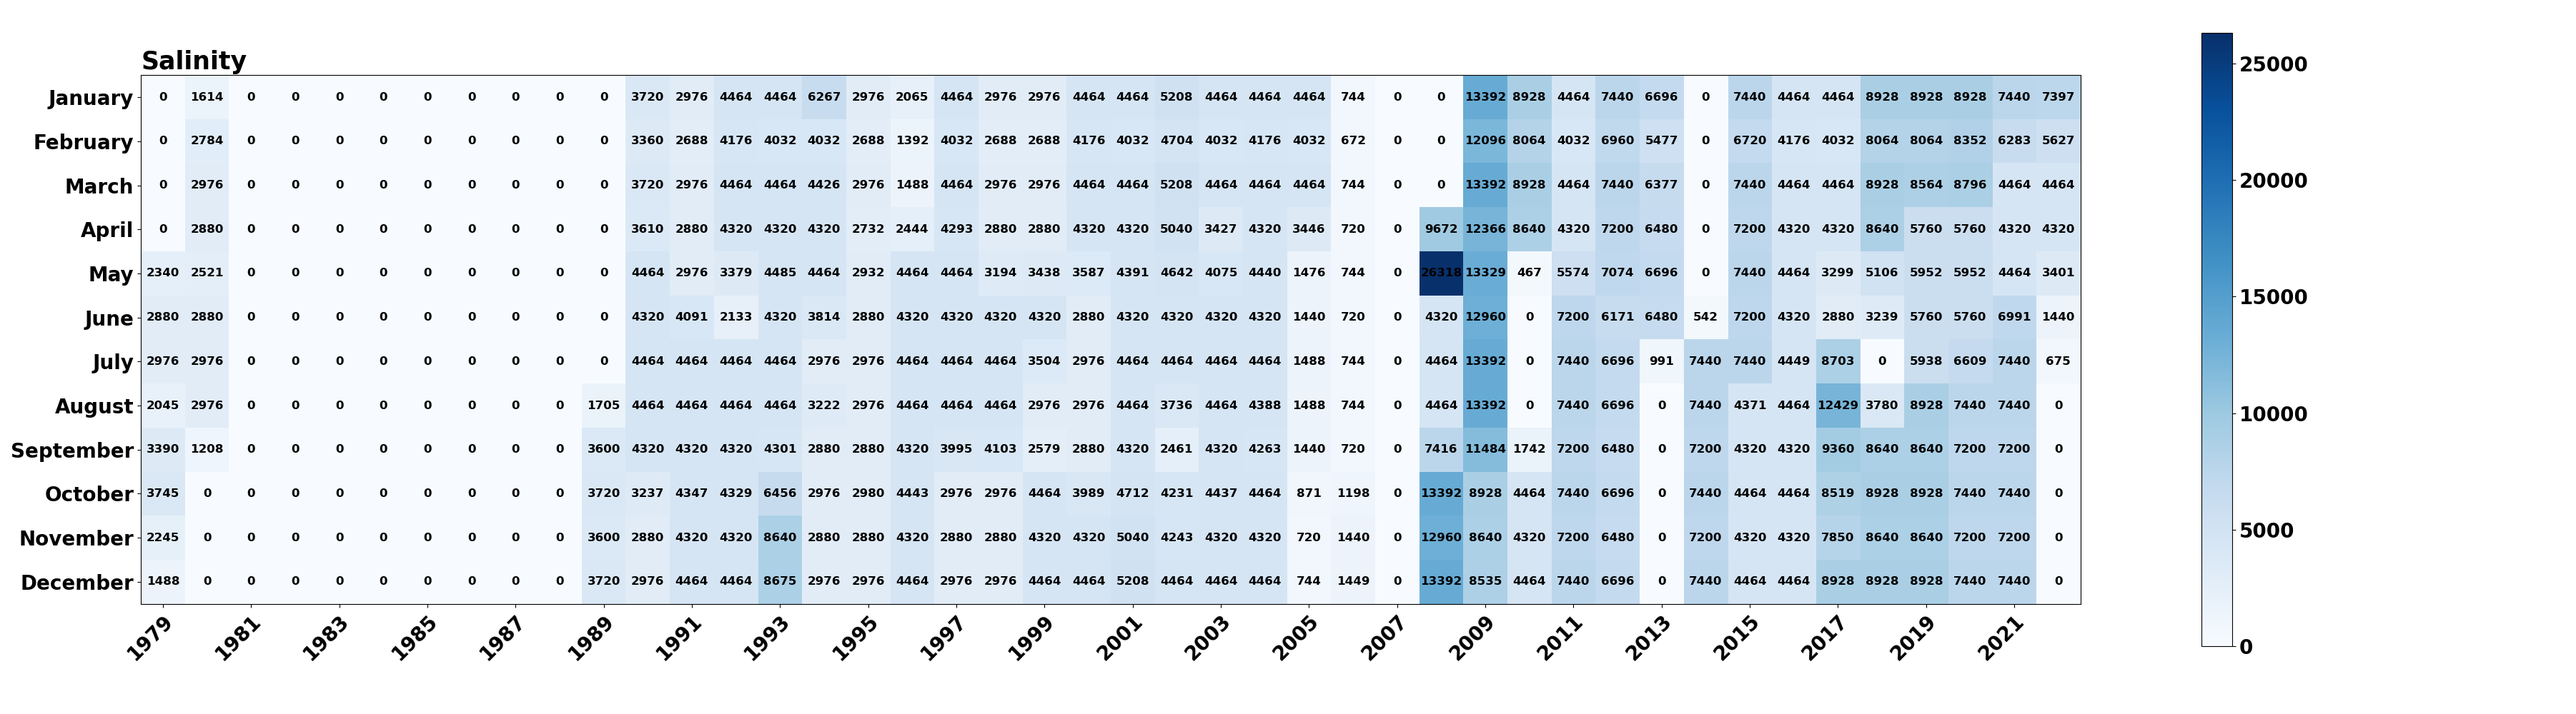
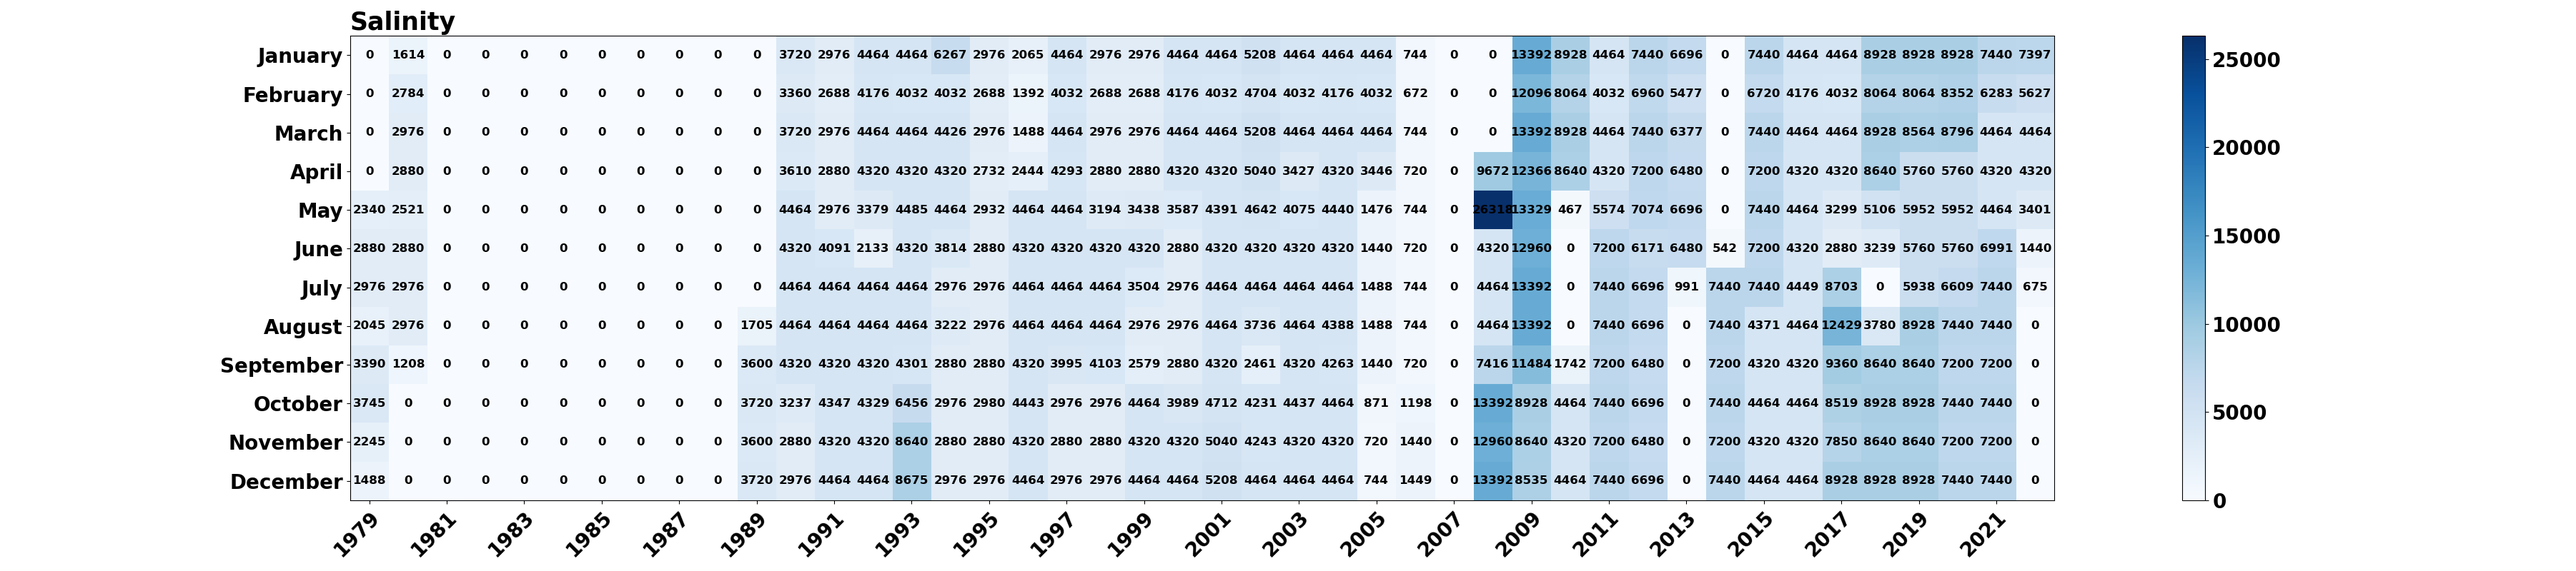
update formatting of annual and monthly observation count plots

Changed region(s): [[0.0, 0.0, 0.808, 0.9688], [0.8391, 0.0312, 0.9012, 0.8438], [0.8391, 0.875, 0.8701, 0.9062]]

diff --git a/scripts/plot_e01_moored_data.py b/scripts/plot_e01_moored_data.py
@@ -8,6 +8,7 @@ from tqdm import trange
 
 VARS = ['Temperature', 'Salinity', 'Oxygen:Dissolved:SBE']
 BIN_DEPTHS = [35, 75, 95]  # Bin the data to +/- 5m around each bin centre
+START_YEAR = 1979
 
 
 def add_datetime(df: pd.DataFrame):
@@ -125,7 +126,7 @@ def plot_monthly_samp_freq(df: pd.DataFrame, var: str, output_dir: str):
     # Access datetime.datetime properties
     df_masked['Month'] = [x.month for x in df_masked.loc[:, 'Datetime'].copy()]
     df_masked['Year'] = [x.year for x in df_masked.loc[:, 'Datetime'].copy()]
-    min_year = df_masked['Year'].min()
+    min_year = START_YEAR  # df_masked['Year'].min() Make the same for all of T, S, O
     max_year = df_masked['Year'].max()
     year_range = max_year - min_year + 1
 
@@ -147,11 +148,9 @@ def plot_monthly_samp_freq(df: pd.DataFrame, var: str, output_dir: str):
     matplotlib.rc("axes", titlesize=25)
     matplotlib.rc("xtick", labelsize=20)
     matplotlib.rc("ytick", labelsize=20)
-    # Adjust figsize since oxy has shorted time series than temp and sal
-    if var in ['Temperature', 'Salinity']:
-        figsize = (40, 8)
-    elif var == 'Oxygen:Dissolved:SBE':
-        figsize = (9, 10)
+
+    figsize = (40, 8)
+
     plt.figure(figsize=figsize, constrained_layout=True)
 
     # Display data as an image, i.e., on a 2D regular raster.
@@ -475,8 +474,8 @@ def compute_daily_anom(df_daily_mean: pd.DataFrame):
                             'Salinity_75m': np.repeat(np.nan, len(df_daily_mean)),
                             'Salinity_95m': np.repeat(np.nan, len(df_daily_mean))})
 
-    # Iterate through the days of year in 1-365
     for i, depth in enumerate(BIN_DEPTHS):
+        # Iterate through the days of year in 1-365
         for day_num in days_of_year:
             # Create a mask for the day of year
             day_mask = df_daily_mean.loc[:, 'Day_of_year'].to_numpy() == day_num
@@ -569,6 +568,20 @@ def run_plot(
         do_monthly_clim: bool = False,
         do_monthly_anom: bool = False
 ):
+    """
+
+    :param do_monthly_avail: Plot monthly observation counts
+    :param do_annual_avail: Plot annual observation counts
+    :param do_raw_by_inst: Plot
+    :param do_raw:
+    :param do_daily_means:
+    :param do_daily_clim:
+    :param do_daily_anom:
+    :param do_monthly_means:
+    :param do_monthly_clim:
+    :param do_monthly_anom:
+    :return:
+    """
     old_dir = os.getcwd()
     if os.path.basename(old_dir) == 'scripts':
         new_dir = os.path.dirname(old_dir)
@@ -584,9 +597,14 @@ def run_plot(
     file_list = [data_dir + 'e01_cur_data_all.csv', data_dir + 'e01_ctd_data.csv']
 
     # Only keep current meter data before 2007 since 2008 is when CTD data start
-    cur_data = pd.read_csv(file_list[0])
-    cur_data_pre2007 = cur_data.loc[cur_data['Date'].to_numpy() < '2007', :]
-    df_all = pd.concat((cur_data_pre2007, pd.read_csv(file_list[1])))
+    if do_raw_by_inst:
+        df_all = pd.concat((pd.read_csv(file_list[0]), pd.read_csv(file_list[1])))
+    else:
+        cur_data = pd.read_csv(file_list[0])
+        cur_data_pre2007 = cur_data.loc[cur_data['Date'].to_numpy() < '2007', :]
+        df_all = pd.concat((cur_data_pre2007, pd.read_csv(file_list[1])))
+
+    # Reset the index in the dataframe
     df_all.reset_index(drop=True, inplace=True)
 
     # Add datetime-format date for plotting ease
